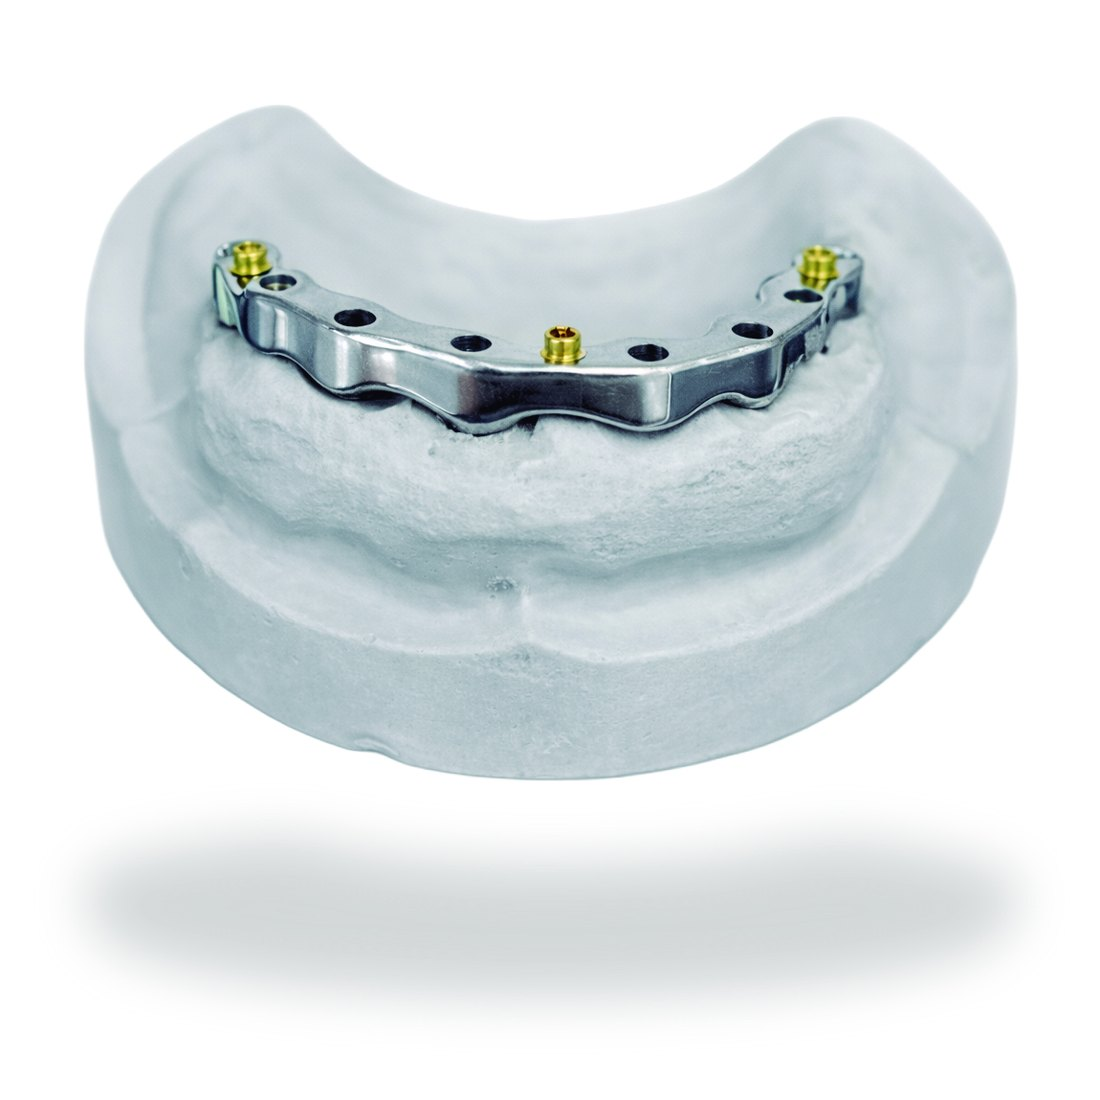
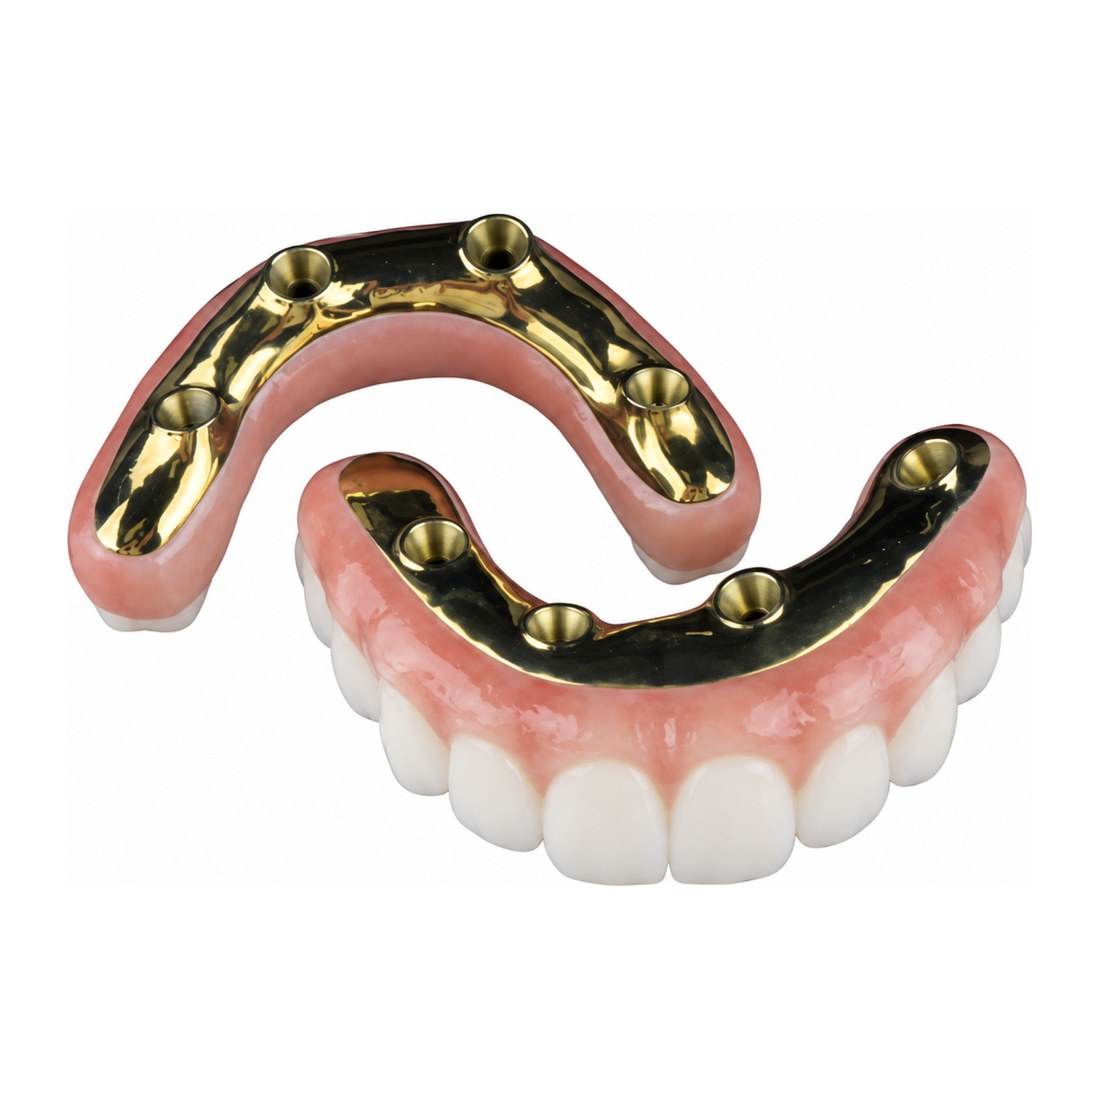
Removible: los 4 tipos en una linea y foto nueva de sobredentadura sobre barra
Claude-Session: https://claude.ai/code/session_01G9ySE2q82eBR5v7f2bLYwG

diff --git a/corporativa/trabajos/removible.html b/corporativa/trabajos/removible.html
@@ -84,7 +84,8 @@ h2.big2 em { font-style:normal; color:var(--goldd); }
 .pbar span { display:block; height:100%; width:0; background:linear-gradient(90deg,var(--gold),var(--gold2)); border-radius:4px; transition:width .9s ease; }
 /* tipos */
 .tipos2 { background:var(--soft); }
-.tp2grid { display:grid; grid-template-columns:repeat(3,1fr); gap:18px; margin-top:24px; }
+.tp2grid { display:grid; grid-template-columns:repeat(4,1fr); gap:16px; margin-top:24px; }
+@media (max-width:1100px) and (min-width:900px) { .tp2grid.ph { grid-template-columns:repeat(2,1fr); } }
 .tp2 { background:#fff; border:1px solid var(--line); border-radius:18px; padding:24px; box-shadow:0 12px 30px rgba(10,20,60,.05); transition:transform .35s ease, box-shadow .35s ease; }
 .tp2:hover { transform:translateY(-6px); box-shadow:0 22px 46px rgba(10,20,60,.1); }
 .tp2 i { font-style:normal; font-family:'Montserrat',sans-serif; font-weight:800; font-size:1.25rem; color:var(--goldd); display:block; line-height:1; margin-bottom:8px; }
@@ -220,7 +221,7 @@ h2.big2 em { font-style:normal; color:var(--goldd); }
   <span class="eyebrow rv">Tipos de removible</span>
   <h2 class="big2 rv">Una soluci&oacute;n removible <em>para cada caso.</em></h2>
   <p class="sub rv">Del esquel&eacute;tico r&iacute;gido al flexible sin metal visible.</p>
-  <div class="tp2grid ph"><div class="tpph rv"><span class="ph3"><span class="nb">01</span><img src="../img/removible-esqueletico.jpg" alt="Esquel&eacute;tico de cromo-cobalto"><span class="cap3">Esquel&eacute;tico (Co-Cr)</span></span><div class="bd"><p>Estructura met&aacute;lica ligera y resistente, de una pieza a la arcada completa.</p><span class="tag">CROMO-COBALTO</span></div></div><div class="tpph rv"><span class="ph3"><span class="nb">02</span><img src="../img/removible-completa.jpg" alt="Pr&oacute;tesis completa acr&iacute;lica superior e inferior"><span class="cap3">Completa y parcial de resina</span></span><div class="bd"><p>Pr&oacute;tesis completa o parcial removible, superior o inferior.</p><span class="tag">PMMA TERMOPOLIMERIZABLE</span></div></div><div class="tpph rv"><span class="ph3"><span class="nb">03</span><img src="../img/removible-flexible.jpg" alt="Pr&oacute;tesis flexible de poliamida"><span class="cap3">Flexible (Valplast)</span></span><div class="bd"><p>Poliamida termoinyectada, con retenedores del propio material, sin metal visible.</p><span class="tag">NYLON TERMOINYECTADO</span></div></div><div class="tpph rv"><span class="ph3"><span class="nb">04</span><img src="../img/removible-barra.jpg" alt="Barra sobre implantes para sobredentadura"><span class="cap3">Ataches y sobredentaduras</span></span><div class="bd"><p>Ataches de precisi&oacute;n con su montaje, y sobredentaduras sobre barra de implantes.</p><span class="tag">ATACHES</span><span class="tag">IMPLANTES</span></div></div></div>
+  <div class="tp2grid ph"><div class="tpph rv"><span class="ph3"><span class="nb">01</span><img src="../img/removible-esqueletico.jpg" alt="Esquel&eacute;tico de cromo-cobalto"><span class="cap3">Esquel&eacute;tico (Co-Cr)</span></span><div class="bd"><p>Estructura met&aacute;lica ligera y resistente, de una pieza a la arcada completa.</p><span class="tag">CROMO-COBALTO</span></div></div><div class="tpph rv"><span class="ph3"><span class="nb">02</span><img src="../img/removible-completa.jpg" alt="Pr&oacute;tesis completa acr&iacute;lica superior e inferior"><span class="cap3">Completa y parcial de resina</span></span><div class="bd"><p>Pr&oacute;tesis completa o parcial removible, superior o inferior.</p><span class="tag">PMMA TERMOPOLIMERIZABLE</span></div></div><div class="tpph rv"><span class="ph3"><span class="nb">03</span><img src="../img/removible-flexible.jpg" alt="Pr&oacute;tesis flexible de poliamida"><span class="cap3">Flexible (Valplast)</span></span><div class="bd"><p>Poliamida termoinyectada, con retenedores del propio material, sin metal visible.</p><span class="tag">NYLON TERMOINYECTADO</span></div></div><div class="tpph rv"><span class="ph3"><span class="nb">04</span><img src="../img/removible-barra.jpg" alt="Sobredentadura sobre barra de implantes"><span class="cap3">Ataches y sobredentaduras</span></span><div class="bd"><p>Ataches de precisi&oacute;n con su montaje, y sobredentaduras sobre barra de implantes.</p><span class="tag">ATACHES</span><span class="tag">IMPLANTES</span></div></div></div>
 </div></section>
 
 
